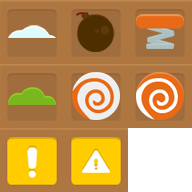
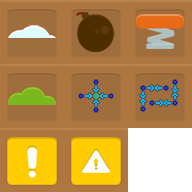
Boss balancing

Changed region(s): [[0.375, 0.375, 0.625, 0.625], [0.6875, 0.375, 0.9688, 0.625]]

diff --git a/server/server.js b/server/server.js
@@ -1362,7 +1362,7 @@
       var attack, attackSpeed, attacks, i, options, speed, waitTime, _i;
       speed = Math.round((0.4 + 0.035 * (levelManager.level + config.bossDifficulty)) * 100) / 100;
       attackSpeed = Math.round((0.6 + 0.04 * (levelManager.level + config.bossDifficulty)) * 100) / 100;
-      waitTime = 300 - 15 * (levelManager.level + config.bossDifficulty);
+      waitTime = 600 - 15 * (levelManager.level + config.bossDifficulty);
       options = [speed, attackSpeed, waitTime];
       attacks = [];
       for (i = _i = 0; _i <= 5; i = ++_i) {

diff --git a/app/js/app.js b/app/js/app.js
@@ -1641,7 +1641,7 @@
     ],
     'swapblock': [
       {
-        x: 64,
+        x: 128,
         y: 64,
         width: 64,
         height: 64
@@ -1649,7 +1649,7 @@
     ],
     'tpblock': [
       {
-        x: 128,
+        x: 64,
         y: 64,
         width: 64,
         height: 64
